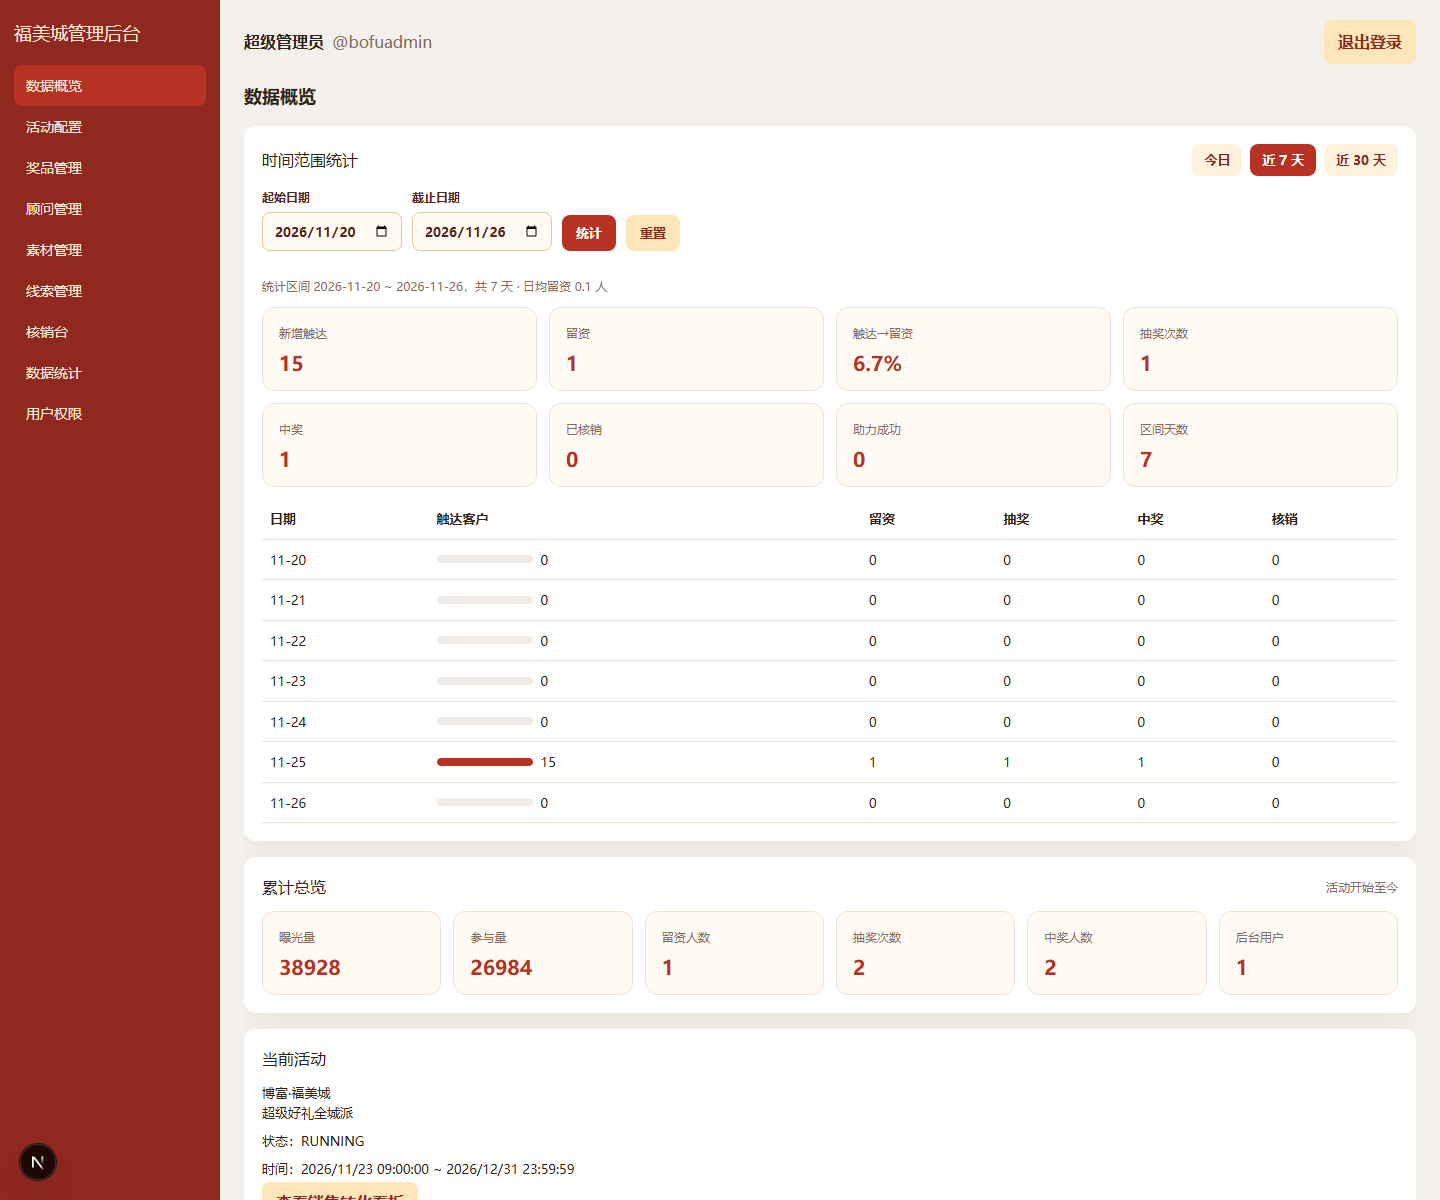
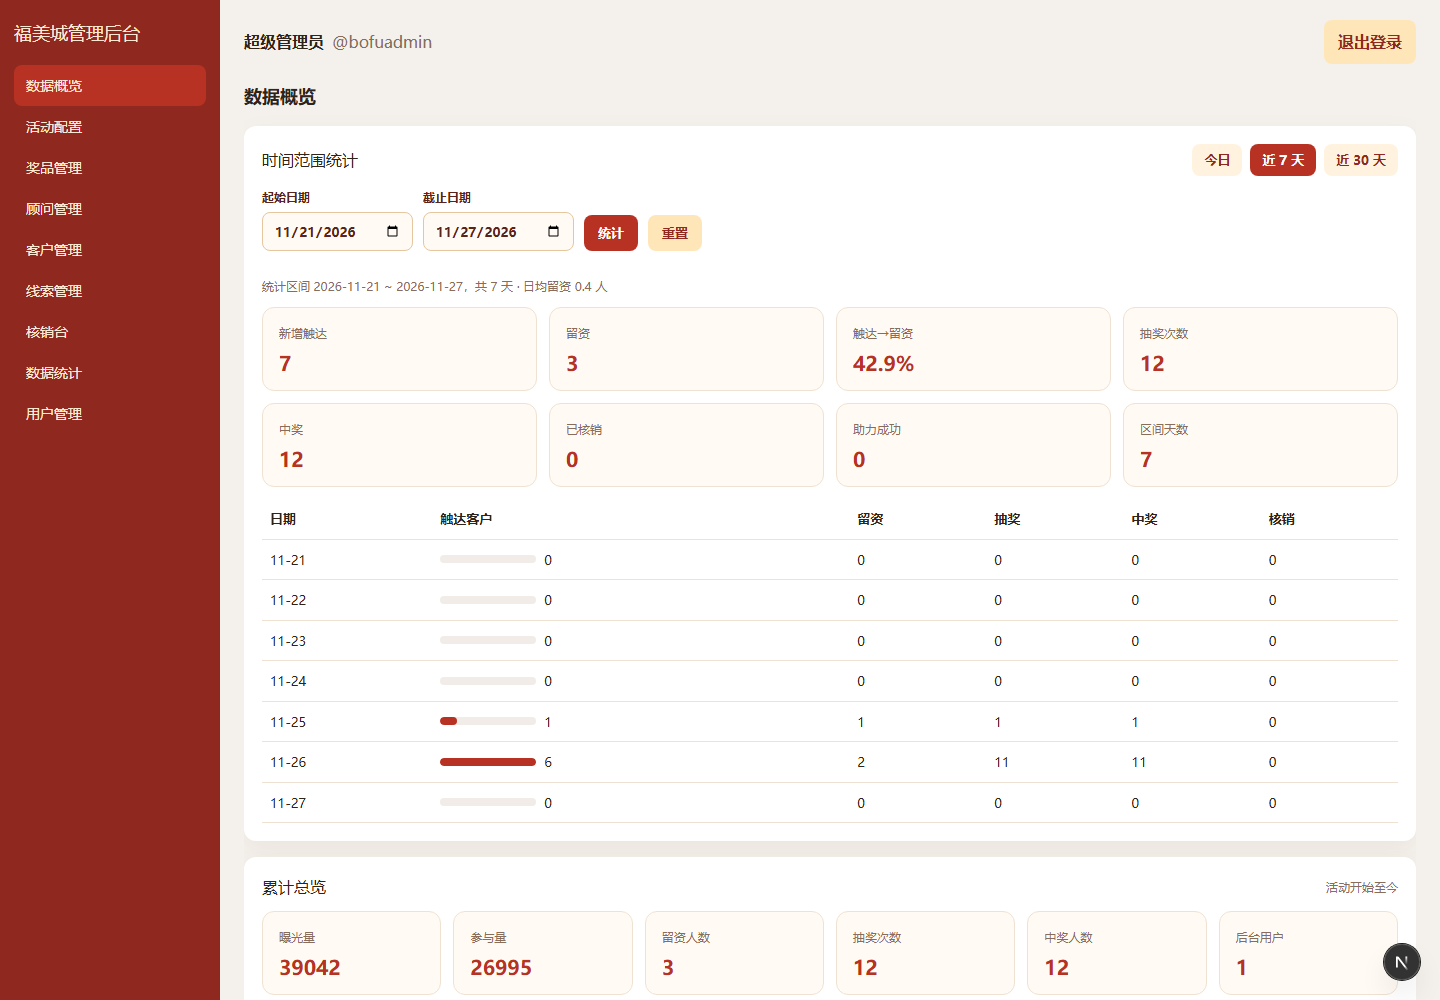
补全三份操作文档截图（本地运行实拍）。
- PC 后台 13 张重截覆盖旧图，新增「角色管理」Tab 截图；同步菜单文案为「客户管理 / 用户管理」
- 移动端后台新增 14 张：登录、汉堡抽屉、数据概览、线索列表/详情/客户奖品/核销弹窗、核销台、活动配置、奖品、顾问、客户管理、数据统计、用户管理
- 移动端客户端 H5 15 张已在仓库，校验三份文档全部图片引用均存在

diff --git a/操作文档-PC后台.md b/操作文档-PC后台.md
@@ -1,7 +1,7 @@
 # 博富·福美城 —— PC 后台操作文档
 
 > 适用对象：系统管理员、运营人员、置业顾问主管  
-> 版本：2026-11-26（含移动端汉堡导航、客户奖品核销、数字核销码、数据概览区间统计）  
+> 版本：2026-11-27（含移动端汉堡导航、客户奖品核销、数字核销码、数据概览区间统计、多角色权限；截图为本地运行实拍）  
 > 访问：线上 `https://bofu.gdruixiang.com/admin`；本地 `http://localhost:3000/admin`  
 > 相关文档：[页面布局.md](./页面布局.md)、[功能清单.md](./功能清单.md)、[README.md](./README.md)
 
@@ -12,11 +12,11 @@
 ![后台登录页](./资料/截图/01-登录页.png)
 
 2. 登录后左侧固定导航只显示**当前账号有权限**的菜单；顶栏显示姓名、`@账号` 与「退出登录」。
-3. 无某模块权限时，访问对应地址会被重定向到第一个有权限的页面；如需开通，联系超级管理员在「用户权限」中勾选模块。
+3. 无某模块权限时，访问对应地址会被重定向到第一个有权限的页面；如需开通，联系超级管理员在「用户管理 → 分配角色」中授予含对应权限的角色。
 
-![用户权限管理](./资料/截图/03-用户权限.png)
+![用户管理（用户 Tab）](./资料/截图/03-用户权限.png)
 
-4. 模块权限码对应：活动配置、素材管理、奖品管理、规则管理、顾问管理、线索管理、核销管理、数据统计、用户权限、系统设置。超级管理员默认拥有全部权限。
+4. 模块权限码对应：活动配置、客户管理、奖品管理、规则管理、顾问管理、线索管理、核销管理、数据统计、用户管理、系统设置。有效权限为用户所绑**多角色的并集**，超级管理员默认拥有全部权限；改角色后该用户需重新登录生效。
 
 ## 2. 页面总览
 
@@ -26,11 +26,11 @@
 | 活动配置 | `/admin/settings`    | 活动信息、分享素材、抽奖规则、规则文案、公告 |
 | 奖品管理 | `/admin/prizes`      | 奖品 CRUD、库存、概率、兜底奖                |
 | 顾问管理 | `/admin/consultants` | 顾问 CRUD、启停、批量导入、推广链接/二维码   |
-| 素材管理 | `/admin/assets`      | 图片素材上传、排序、启用、跳转链接           |
+| 客户管理 | `/admin/assets`      | 图片素材上传、排序、启用、跳转链接           |
 | 线索管理 | `/admin/leads`       | 客户筛选、详情、备注改绑、奖品核销、导出     |
-| 核销台   | `/admin/redeem`      | 按核销码查询并核销、修改核销密码             |
+| 核销台   | `/admin/redeem`      | 扫码/核销码查询并核销、修改核销密码          |
 | 数据统计 | `/admin/stats`       | 顾问漏斗、库存预警、日期筛选、xlsx 导出      |
-| 用户权限 | `/admin/users`       | 后台账号、权限、启停、数据清理（超管）       |
+| 用户管理 | `/admin/users`       | 后台账号、角色与权限、启停、数据清理（超管） |
 
 ![后台导航与数据概览](./资料/截图/02-数据概览.png)
 
@@ -83,13 +83,13 @@
 
 ![顾问管理列表](./资料/截图/06-顾问管理.png)
 
-### 3.5 素材管理
+### 3.5 客户管理（图片素材）
 
 - 表格列：图片缩略图 / 素材序号 / 类型 / 标题 / 跳转链接 / 说明 / 排序 / 启用 / 操作。点击缩略图放大预览，弹窗内可打开跳转链接。
 - `type` 决定 H5 展示位置：`highlight`（项目亮点）、`property`（楼盘社区）等；排序号越小越靠前，关闭「启用」即下架。
 - 顶部「新增素材」与「保存全部」；单行的上传按钮走 `/api/admin/upload`。图片地址统一由 `/api/media/uploads/YYYYMM/xxx` 动态读取，不要手填/改用 `/uploads/...`（该路径在生产会被预渲染成 404 缓存导致裂图）。
 
-![素材管理](./资料/截图/07-素材管理.png)
+![客户管理（图片素材表格）](./资料/截图/07-素材管理.png)
 
 ### 3.6 线索管理与详情
 
@@ -116,11 +116,11 @@
 
 ### 3.7 核销台
 
-1. 输入客户手机上的**核销码**（4~8 位纯数字，默认 6 位；输入框只收数字、最长 8 位）与**4 位核销密码**。
-2. 点「查询」核对奖品、中奖人、手机（脱敏）、中奖时间与当前状态；确认无误后点「确认核销」。
+1. 支持三种取码方式：**扫码核销**（摄像头识别客户手机上的核销二维码）、微信内「微信扫一扫」、**手输/粘贴**核销码或完整核销链接（`/admin/redeem?code=...`）。新码为 4~8 位纯数字（默认 6 位），历史 cuid 码也可粘贴识别。
+2. 输入**4 位核销密码**点「查询」；本浏览器会话会记住密码，扫码后可能自动查询一次。核对奖品、中奖人、手机（脱敏）、中奖时间与当前状态；确认无误后点「确认核销」。**扫码只填码，不会自动核销**。
 3. 已核销返回 409 提示，已过期会自动置为「已失效」且不能核销；未中奖记录不可核销。
 4. 同页底部可「修改核销密码」：填当前密码 + 新 4 位数字 + 确认，立即生效。
-5. 历史 cuid 核销码仍可在接口侧查询核销，但核销台输入框限 8 位；此类记录可在「线索详情 → 客户奖品」中直接核销。
+5. 页面顶部有今日/待核销/累计/过期计数，底部「最近核销记录」可复核核销人与时间。详细现场流程见 [操作文档-工作人员核销.md](./操作文档-工作人员核销.md)。
 
 ![核销台（核销码 482916）](./资料/截图/12-核销台.png)
 
@@ -132,11 +132,16 @@
 
 ![数据统计](./资料/截图/13-数据统计.png)
 
-### 3.9 用户权限与数据清理（超级管理员）
+### 3.9 用户管理与数据清理（超级管理员）
 
 - 页面含 **用户 / 角色** 两个 Tab。
 - **用户**：列含账号 / 姓名 / 手机号 / 状态 / 角色 / 有效权限 / 操作。「新增用户」「编辑」「分配角色」为居中弹窗；角色可多选，有效权限为并集只读展示。超级管理员不经角色赋权；当前登录账号不可停用。改角色后该用户需重新登录。
 - **角色**：预置管理员 / 运营 / 核销员 / 只读；可新建自定义角色并勾选模块；改角色权限会同步所有绑定用户（重新登录生效）。系统角色不可删除；仍有用户绑定时不可删。
+
+![用户管理（用户 Tab）](./资料/截图/03-用户权限.png)
+
+![角色管理（角色 Tab）](./资料/截图/14-角色管理.png)
+
 - 「数据清理」卡片仅超管可见：选择范围（清空业务数据 / 完全重置），填当前账号密码 + 确认短语「确认清空」，再二次确认。业务数据清理保留活动/奖品/顾问/素材并恢复库存与统计计数；完全重置保留后台用户与角色。
 - 服务器手工清库可用 `scripts/purge-data.sql`：默认只执行 A 段业务数据，B 段完全重置需手动取消注释。
 
@@ -148,5 +153,5 @@
 | 保存奖品时提示概率不等于 100% | 调整所有启用奖品（含兜底奖）的概率再保存                     |
 | 手机分享仍是 URL 链接         | 确认公众号后台已配置 **JS 接口安全域名** 与服务器 IP 白名单；可用 `/?wxdebug=1` 查看签名调试信息 |
 | 核销提示密码错误              | 核销密码在活动配置或核销台查看/修改；现场与客户手机共用同一 4 位密码 |
-| 提示核销码不存在              | 新码为 4~8 位数字，确认没有多余字符；旧 cuid 码请从线索详情「客户奖品」进入核销 |
-| 看不到某个菜单                | 账号未被授予该模块权限，联系超管在「用户权限」中勾选         |
+| 提示核销码不存在              | 新码为 4~8 位数字，确认没有多余字符；旧 cuid 码可从线索详情「客户奖品」核销 |
+| 看不到某个菜单                | 账号未被授予对应模块权限，联系超管在「用户管理 → 分配角色」中授予 |

diff --git a/操作文档-移动端后台.md b/操作文档-移动端后台.md
@@ -1,17 +1,23 @@
 # 博富·福美城 —— 移动端后台操作文档
 
 > 适用对象：需要在手机上处理线索、现场核销、查看数据的管理员 / 销售主管  
-> 版本：2026-11-26（≤900px 自动切换为汉堡导航布局）  
+> 版本：2026-11-27（≤900px 自动切换为汉堡导航布局；截图为本地运行实拍）  
 > 访问：手机浏览器打开 `https://bofu.gdruixiang.com/admin`，登录后即为移动版；与 PC 后台是**同一套页面与数据**，不是独立系统  
 > 相关文档：[操作文档-PC后台.md](./操作文档-PC后台.md)、[页面布局.md](./页面布局.md)、[功能清单.md](./功能清单.md)
 
 ## 1. 登录与导航
 
 1. 打开 `/admin`，输入账号密码登录；顶栏显示姓名、账号与「退出登录」。
+
+![移动端后台登录](./资料/截图/M-01-移动端登录.png)
+
 2. 在宽度 ≤900px 的屏幕上，左侧导航栏**自动收起**，顶栏左侧出现**汉堡按钮**（三条横线）：
    - 点汉堡按钮 → 从左侧滑出抽屉导航，列出当前账号有权限的全部菜单，当前页高亮；
    - 点导航项直接跳转并自动收起抽屉；
    - 点右侧遮罩、点抽屉右上角「×」、按手机返回或 Esc 均可关闭抽屉。
+
+![汉堡菜单展开后的抽屉导航](./资料/截图/M-02-汉堡菜单展开.png)
+
 3. 屏幕转横屏或宽度超过 900px 时，恢复 PC 版左侧固定导航。
 
 ### 窄屏操作约定
@@ -30,18 +36,32 @@
 3. 查看区间指标卡（新增触达、留资、转化率、抽奖、中奖、核销、助力）与日均留资；再往下看**按天明细表**，判断哪天流量上涨/下滑。
 4. 「累计总览」与「当前活动」在下方；需要按顾问排行时点「查看销售转化看板」。
 
+![移动端数据概览与时间范围统计](./资料/截图/M-03-移动端数据概览.png)
+
 ### 2.2 线索详情与客户奖品核销（现场最常用）
 
 1. 汉堡菜单 →「线索管理」，可用姓名 / 手机 / 微信昵称搜索，点表格「详情」进入独立页面。
+
+![移动端线索管理列表](./资料/截图/M-04-移动端线索列表.png)
+
 2. 详情顶部小导航依次是：概览 / 客户与留资 / **客户奖品** / 备注与分层 / 行为轨迹 / 操作日志。
+
+![移动端线索详情概览](./资料/截图/M-05-移动端线索详情概览.png)
+
 3. 点「客户奖品」：
    - 先看中奖 / 待核销 / 已核销三个计数；
    - 下方每个卡片对应一次中奖，显示等级·名称、**核销码**、状态与中奖时间；
    - **点击对应奖品卡片**打开居中弹窗；
+
+![移动端客户奖品分区](./资料/截图/M-06-移动端客户奖品核销.png)
+
 4. 弹窗内核对奖品、核销码、状态，输入**4 位核销密码**，点「确认核销」。
    - 只有具备「核销管理」权限的账号才会出现确认按钮；否则弹窗只显示提示；
    - 成功后状态变「已核销」，记录核销时间与核销人，页面计数即时刷新；
    - 已核销/已失效的奖品只能查看详情，不能再次核销。
+
+![移动端客户奖品核销弹窗](./资料/截图/M-07-移动端核销弹窗.png)
+
 5. 需要登记跟进时切到「备注与分层」：回访记录、意向变化填写后保存；归属顾问支持输入姓名搜索后下拉选择；行为轨迹每页 10 条可翻页。
 
 ### 2.3 核销台（按核销码核销）
@@ -52,17 +72,35 @@
 4. 底部「修改核销密码」可改统一密码：当前密码 + 新 4 位数字 + 确认，立即生效。
 5. 旧格式（字母数字）核销码可粘贴查询，或改用 2.2 的「客户奖品」核销。
 
-### 2.4 活动配置 / 奖品 / 顾问 / 素材
+![移动端核销台](./资料/截图/M-08-移动端核销台.png)
+
+### 2.4 活动配置 / 奖品 / 顾问 / 客户管理
 
 - **活动配置**：五个小导航（基础信息 / 分享与素材 / 抽奖与分层 / 规则文案 / 活动公告），改完点「保存活动配置」；海报再显间隔、核销密码、每日/总上限都在这里。
+
+![移动端活动配置](./资料/截图/M-09-移动端活动配置.png)
+
 - **奖品管理**：新增/编辑奖品、库存与概率；启用奖品概率合计必须为 100%；库存不足时可在「数据统计」的库存预警查看并补充。
+
+![移动端奖品管理](./资料/截图/M-10-移动端奖品管理.png)
+
 - **顾问管理**：小导航切换顾问列表 / 新增顾问 / 批量导入；推广列「复制链接」「链接二维码」可用，二维码弹窗内可下载 PNG。
+
+![移动端顾问管理](./资料/截图/M-11-移动端顾问管理.png)
+
 - **客户管理**：表格左右滑动查看列；点缩略图放大；新增/保存全部后 H5 刷新生效。
+
+![移动端客户管理](./资料/截图/M-12-移动端客户管理.png)
 
 ### 2.5 数据统计、用户管理与数据清理
 
 - 「数据统计」：日期筛选、顾问转化表、库存预警与两份 xlsx 导出（手机上建议横屏查看宽表）。
+
+![移动端数据统计](./资料/截图/M-13-移动端数据统计.png)
+
 - 「用户管理」：用户 / 角色 Tab；表格左右滑动，点「编辑 / 分配角色」打开弹窗（角色可多选）；「角色」Tab 可改预置/自定义角色权限。超级管理员可见「数据清理」——清空业务数据或完全重置，需当前密码 + 确认短语「确认清空」+ 二次确认。**此操作不可逆，执行前务必确认范围。**
+
+![移动端用户管理](./资料/截图/M-14-移动端用户管理.png)
 
 ## 3. 常见问题
 
@@ -71,6 +109,6 @@
 | 找不到左侧菜单 | 点顶栏汉堡按钮展开抽屉；菜单按账号权限过滤 |
 | 表格内容看不全 | 在表格区域左右滑动；表格已设为单行显示 |
 | 点奖品没反应 / 没有核销按钮 | 检查账号是否有「核销管理」权限，或该奖品不是待核销状态 |
-| 核销提示密码错误 | 使用当前统一 4 位核销密码；可在核销台查看/修改入口，需知道旧密码 |
+| 核销提示密码错误 | 使用当前统一 4 位核销密码；可在核销台修改入口，需知道旧密码 |
 | 图片加载不出来 | 后台上传的图片走 `/api/media/uploads/...`；旧 `/uploads/...` 地址会显示裂图，联系管理员在客户管理中重新上传 |
 | 手机上操作表格太挤 | 建议横屏；核心核销操作优先使用「线索详情 → 客户奖品」流程 |
